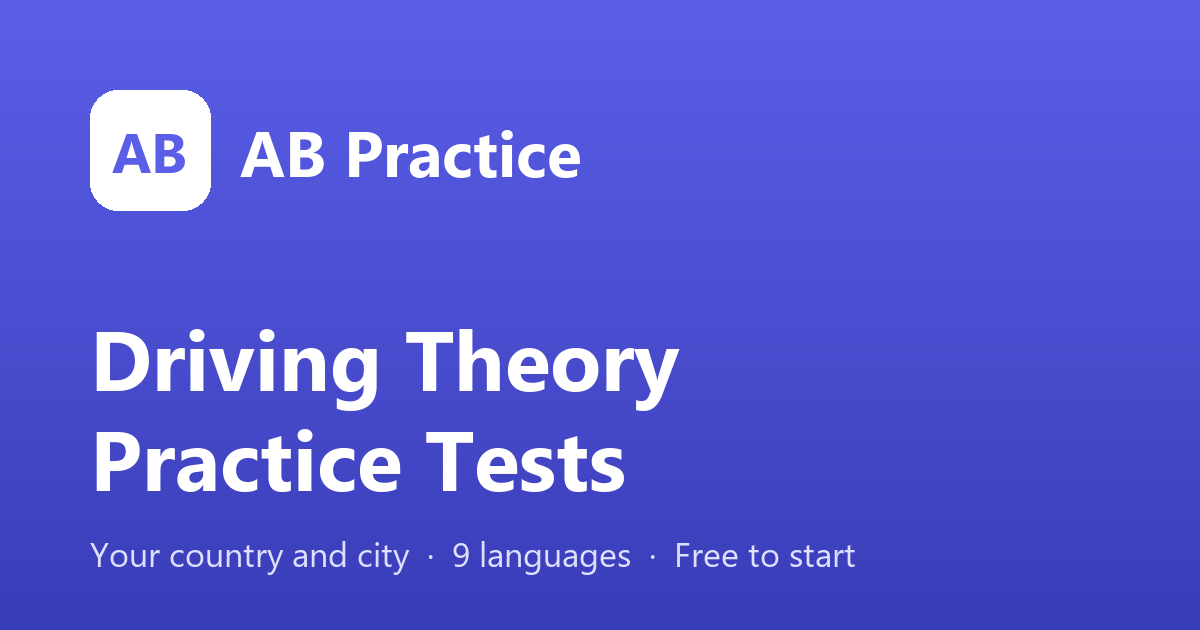
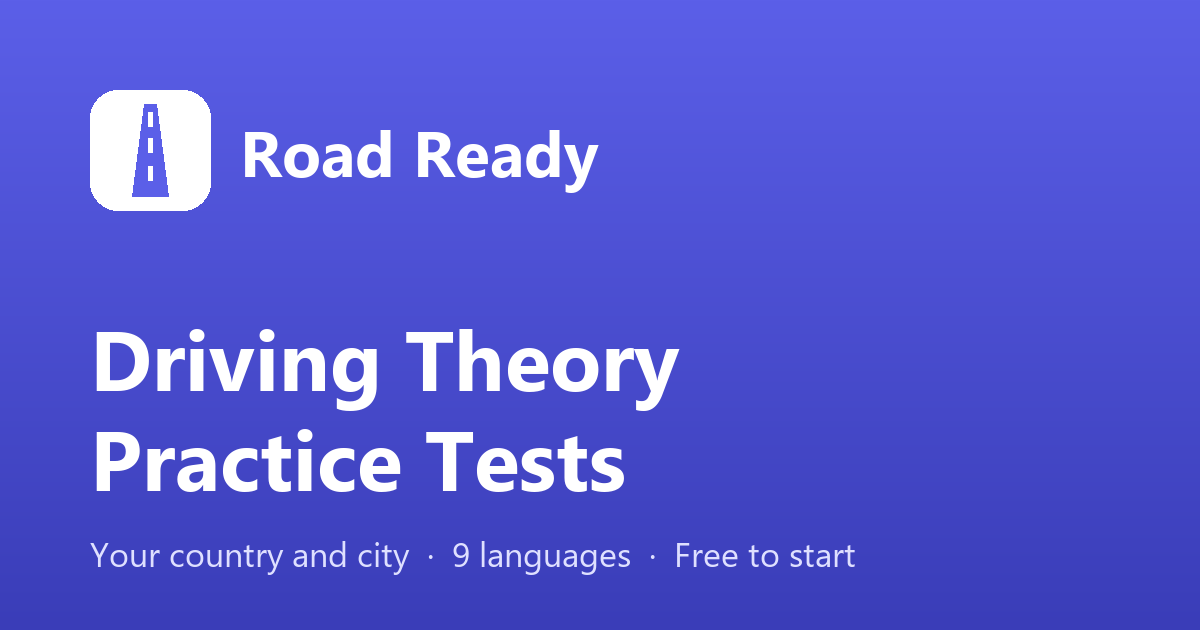
Rename the site to Road Ready

Changed region(s): [[0.185, 0.2111, 0.4933, 0.3016], [0.0925, 0.1508, 0.1542, 0.3317]]

diff --git a/frontend/index.html b/frontend/index.html
@@ -10,8 +10,8 @@
     <meta name="description" content="Driving theory practice tests for your country and city, in 9 languages." />
     <meta name="theme-color" content="#5b5fe8" />
     <meta property="og:type" content="website" />
-    <meta property="og:site_name" content="AB Practice" />
-    <meta property="og:title" content="AB Practice – Driving Theory Practice Tests" />
+    <meta property="og:site_name" content="Road Ready" />
+    <meta property="og:title" content="Road Ready – Driving Theory Practice Tests" />
     <meta property="og:description" content="Practice for your driving knowledge test with questions for your country and city, in 9 languages." />
     <meta property="og:url" content="https://ab-practice.onrender.com/" />
     <meta property="og:image" content="https://ab-practice.onrender.com/og-image.png" />
@@ -20,7 +20,7 @@
     <meta name="twitter:card" content="summary_large_image" />
     <meta name="twitter:image" content="https://ab-practice.onrender.com/og-image.png" />
     <link rel="canonical" href="https://ab-practice.onrender.com/" />
-    <title>AB Practice – Driving Theory Practice Tests</title>
+    <title>Road Ready – Driving Theory Practice Tests</title>
     <script>
       try {
         var theme = localStorage.getItem('theme') || (matchMedia('(prefers-color-scheme: dark)').matches ? 'dark' : 'light')

diff --git a/frontend/src/i18n/hi.js b/frontend/src/i18n/hi.js
@@ -33,7 +33,7 @@ const hi = {
     regionsTitle: 'देश और क्षेत्र',
     regionsText: 'हर देश और शहर में ड्राइविंग के नियम अलग होते हैं। हम धीरे-धीरे नई जगहें जोड़ रहे हैं।',
     featuresEyebrow: 'फ़ायदे',
-    featuresTitle: 'AB Practice क्यों',
+    featuresTitle: 'Road Ready क्यों',
     features: [
       { title: 'स्थानीय नियम', text: 'प्रश्न आपके प्रांत, राज्य या शहर की आधिकारिक ड्राइवर हैंडबुक पर आधारित हैं।' },
       { title: '9 भाषाएँ', text: 'उस भाषा में सीखें जो आप सबसे अच्छी तरह समझते हैं, अंग्रेज़ी से लेकर चीनी और अरबी तक।' },

diff --git a/frontend/src/i18n/ar.js b/frontend/src/i18n/ar.js
@@ -33,7 +33,7 @@ const ar = {
     regionsTitle: 'الدول والمناطق',
     regionsText: 'قوانين المرور تختلف من دولة إلى أخرى ومن مدينة إلى أخرى. نضيف أماكن جديدة خطوة بخطوة.',
     featuresEyebrow: 'المزايا',
-    featuresTitle: 'لماذا AB Practice',
+    featuresTitle: 'لماذا Road Ready',
     features: [
       { title: 'قوانين محلية', text: 'الأسئلة مبنية على دليل السائق الرسمي لمقاطعتك أو ولايتك أو مدينتك.' },
       { title: '9 لغات', text: 'تعلّم باللغة التي تفهمها أكثر، من الإنجليزية إلى الصينية والعربية.' },

diff --git a/frontend/src/i18n/fa.js b/frontend/src/i18n/fa.js
@@ -33,7 +33,7 @@ const fa = {
     regionsTitle: 'کشورها و مناطق',
     regionsText: 'قوانین رانندگی در هر کشور و شهر فرق دارد. ما قدمبهقدم مناطق جدید اضافه میکنیم.',
     featuresEyebrow: 'مزایا',
-    featuresTitle: 'چرا AB Practice',
+    featuresTitle: 'چرا Road Ready',
     features: [
       { title: 'قوانین محلی', text: 'سوالها بر اساس کتاب راهنمای رسمی رانندگی استان، ایالت یا شهر تو هستند.' },
       { title: '۹ زبان', text: 'به زبانی که بهتر میفهمی یاد بگیر؛ از انگلیسی تا چینی و عربی.' },

diff --git a/frontend/src/components/Footer.jsx b/frontend/src/components/Footer.jsx
@@ -14,7 +14,7 @@ function Footer() {
         <div className="footer-brand">
           <Link to="/" className="logo">
             <span className="logo-mark"><LogoIcon /></span>
-            AB Practice
+            Road Ready
           </Link>
           <p>{t.footer.tagline}</p>
         </div>
@@ -26,7 +26,7 @@ function Footer() {
           <Link to="/terms">{t.footer.terms}</Link>
         </div>
       </div>
-      <p className="footer-bottom">© {new Date().getFullYear()} AB Practice. {t.footer.rights}</p>
+      <p className="footer-bottom">© {new Date().getFullYear()} Road Ready. {t.footer.rights}</p>
     </footer>
   )
 }

diff --git a/frontend/src/i18n/de.js b/frontend/src/i18n/de.js
@@ -33,7 +33,7 @@ const de = {
     regionsTitle: 'Länder und Regionen',
     regionsText: 'Die Verkehrsregeln sind in jedem Land und jeder Stadt anders. Wir fügen Schritt für Schritt neue Orte hinzu.',
     featuresEyebrow: 'Vorteile',
-    featuresTitle: 'Warum AB Practice',
+    featuresTitle: 'Warum Road Ready',
     features: [
       { title: 'Lokale Regeln', text: 'Die Fragen folgen dem offiziellen Fahrerhandbuch deiner Provinz, deines Bundesstaats oder deiner Stadt.' },
       { title: '9 Sprachen', text: 'Lerne in der Sprache, die du am besten verstehst – von Englisch bis Chinesisch und Arabisch.' },

diff --git a/frontend/src/i18n/fr.js b/frontend/src/i18n/fr.js
@@ -33,7 +33,7 @@ const fr = {
     regionsTitle: 'Pays et régions',
     regionsText: 'Le code de la route change d\'un pays et d\'une ville à l\'autre. Nous ajoutons de nouveaux lieux étape par étape.',
     featuresEyebrow: 'Avantages',
-    featuresTitle: 'Pourquoi AB Practice',
+    featuresTitle: 'Pourquoi Road Ready',
     features: [
       { title: 'Règles locales', text: 'Les questions suivent le guide officiel du conducteur de votre province, État ou ville.' },
       { title: '9 langues', text: 'Apprenez dans la langue que vous comprenez le mieux, de l\'anglais au chinois et à l\'arabe.' },

diff --git a/frontend/src/i18n/pt.js b/frontend/src/i18n/pt.js
@@ -33,7 +33,7 @@ const pt = {
     regionsTitle: 'Países e regiões',
     regionsText: 'As regras de trânsito mudam em cada país e cidade. Estamos adicionando novos locais passo a passo.',
     featuresEyebrow: 'Vantagens',
-    featuresTitle: 'Por que AB Practice',
+    featuresTitle: 'Por que Road Ready',
     features: [
       { title: 'Regras locais', text: 'As perguntas seguem o manual oficial do motorista da sua província, estado ou cidade.' },
       { title: '9 idiomas', text: 'Aprenda no idioma que você entende melhor, do inglês ao chinês e ao árabe.' },

diff --git a/frontend/src/i18n/es.js b/frontend/src/i18n/es.js
@@ -33,7 +33,7 @@ const es = {
     regionsTitle: 'Países y regiones',
     regionsText: 'Las normas de tráfico cambian en cada país y ciudad. Añadimos nuevos lugares paso a paso.',
     featuresEyebrow: 'Ventajas',
-    featuresTitle: 'Por qué AB Practice',
+    featuresTitle: 'Por qué Road Ready',
     features: [
       { title: 'Normas locales', text: 'Las preguntas siguen el manual oficial del conductor de tu provincia, estado o ciudad.' },
       { title: '9 idiomas', text: 'Aprende en el idioma que mejor entiendes, del inglés al chino y al árabe.' },

diff --git a/frontend/src/i18n/en.js b/frontend/src/i18n/en.js
@@ -33,7 +33,7 @@ const en = {
     regionsTitle: 'Countries and regions',
     regionsText: 'Driving rules are different in every country and city. We add new places step by step.',
     featuresEyebrow: 'Benefits',
-    featuresTitle: 'Why AB Practice',
+    featuresTitle: 'Why Road Ready',
     features: [
       { title: 'Local rules', text: 'Questions follow the official driver\'s handbook of your province, state or city.' },
       { title: '9 languages', text: 'Learn in the language you understand best, from English to Chinese and Arabic.' },

diff --git a/frontend/src/i18n/zh.js b/frontend/src/i18n/zh.js
@@ -33,7 +33,7 @@ const zh = {
     regionsTitle: '国家和地区',
     regionsText: '每个国家和城市的交通规则都不同。我们正在一步一步增加新的地区。',
     featuresEyebrow: '优势',
-    featuresTitle: '为什么选择 AB Practice',
+    featuresTitle: '为什么选择 Road Ready',
     features: [
       { title: '本地规则', text: '题目依据你所在省、州或城市的官方驾驶手册。' },
       { title: '9 种语言', text: '用你最熟悉的语言学习，从英语到中文和阿拉伯语。' },

diff --git a/frontend/src/App.jsx b/frontend/src/App.jsx
@@ -36,7 +36,7 @@ function pageTitle(path, t) {
     '/feedback': t.feedback.title,
     '/admin': 'Admin',
   }
-  return titles[path] ? titles[path] + ' · AB Practice' : 'AB Practice – Driving Theory Practice Tests'
+  return titles[path] ? titles[path] + ' · Road Ready' : 'Road Ready – Driving Theory Practice Tests'
 }
 
 function App() {
